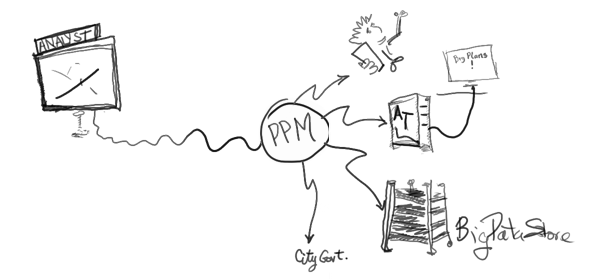
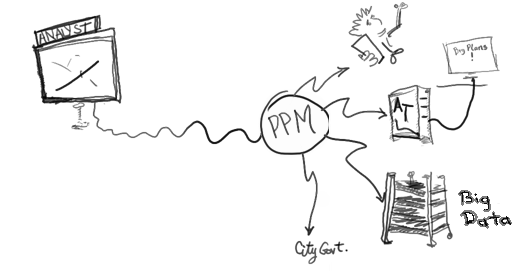
white bg on figs, error in link in summary

Changed region(s): [[0.0302, 0.0, 0.9679, 0.9742], [0.6352, 0.5609, 0.6654, 0.6199]]

diff --git a/summary.md b/summary.md
@@ -73,9 +73,8 @@ local agency's planning model data.
 
 Public Planning Models will open up a planning agency's planning
 models to the public.  Whether these models are activity-based
-([pdf](http://orfe.princeton.edu/~alaink/NJ_aTaxiOrf467F12/Papers/lit%20review/TSHANDBK.pdf])
-or of the more traditional four-step planning process ([pdf](
-http://www.its.uci.edu/its/publications/papers/CASA/UCI-ITS-AS-WP-07-2.pdf))
+([pdf](http://orfe.princeton.edu/~alaink/NJ_aTaxiOrf467F12/Papers/lit%20review/TSHANDBK.pdf))
+or of the more traditional four-step planning process ([pdf](http://www.its.uci.edu/its/publications/papers/CASA/UCI-ITS-AS-WP-07-2.pdf))
 variety, these models are typically difficult to set up and run, and
 are generally kept hidden in back rooms and dark corners.  We feel
 that dragging these models out into public view is
